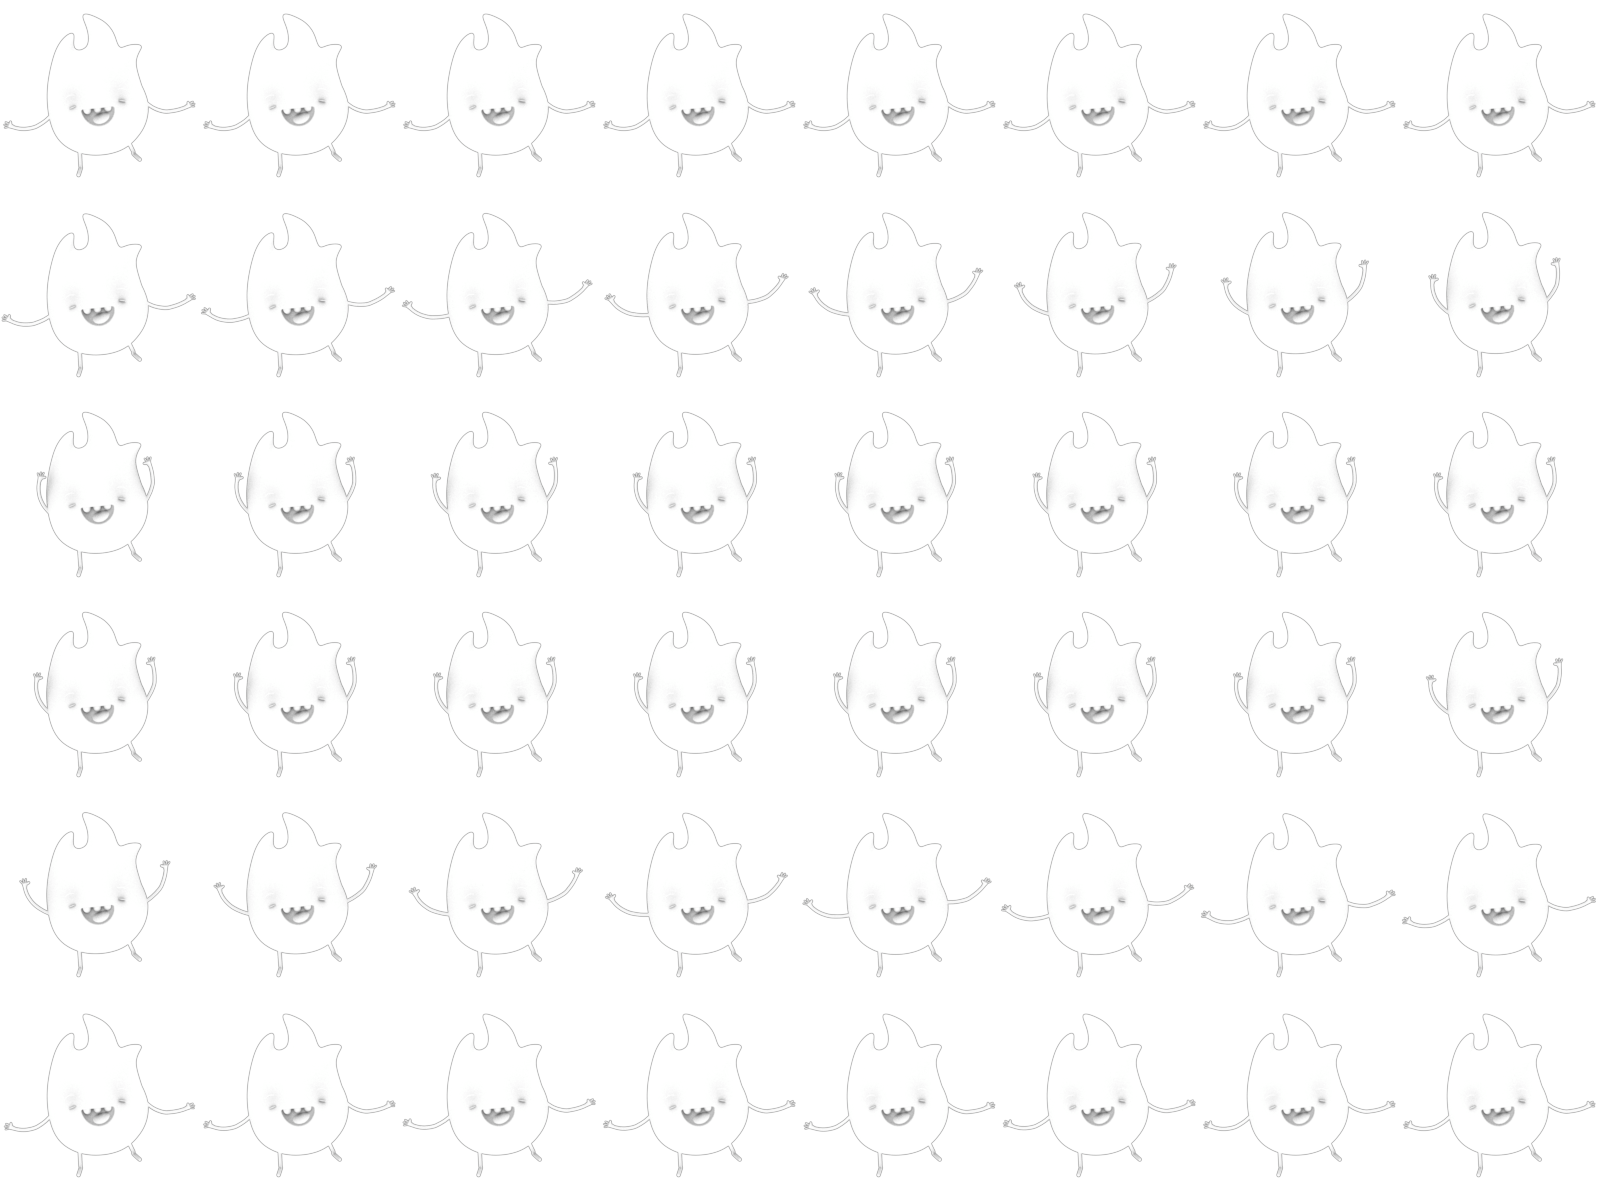
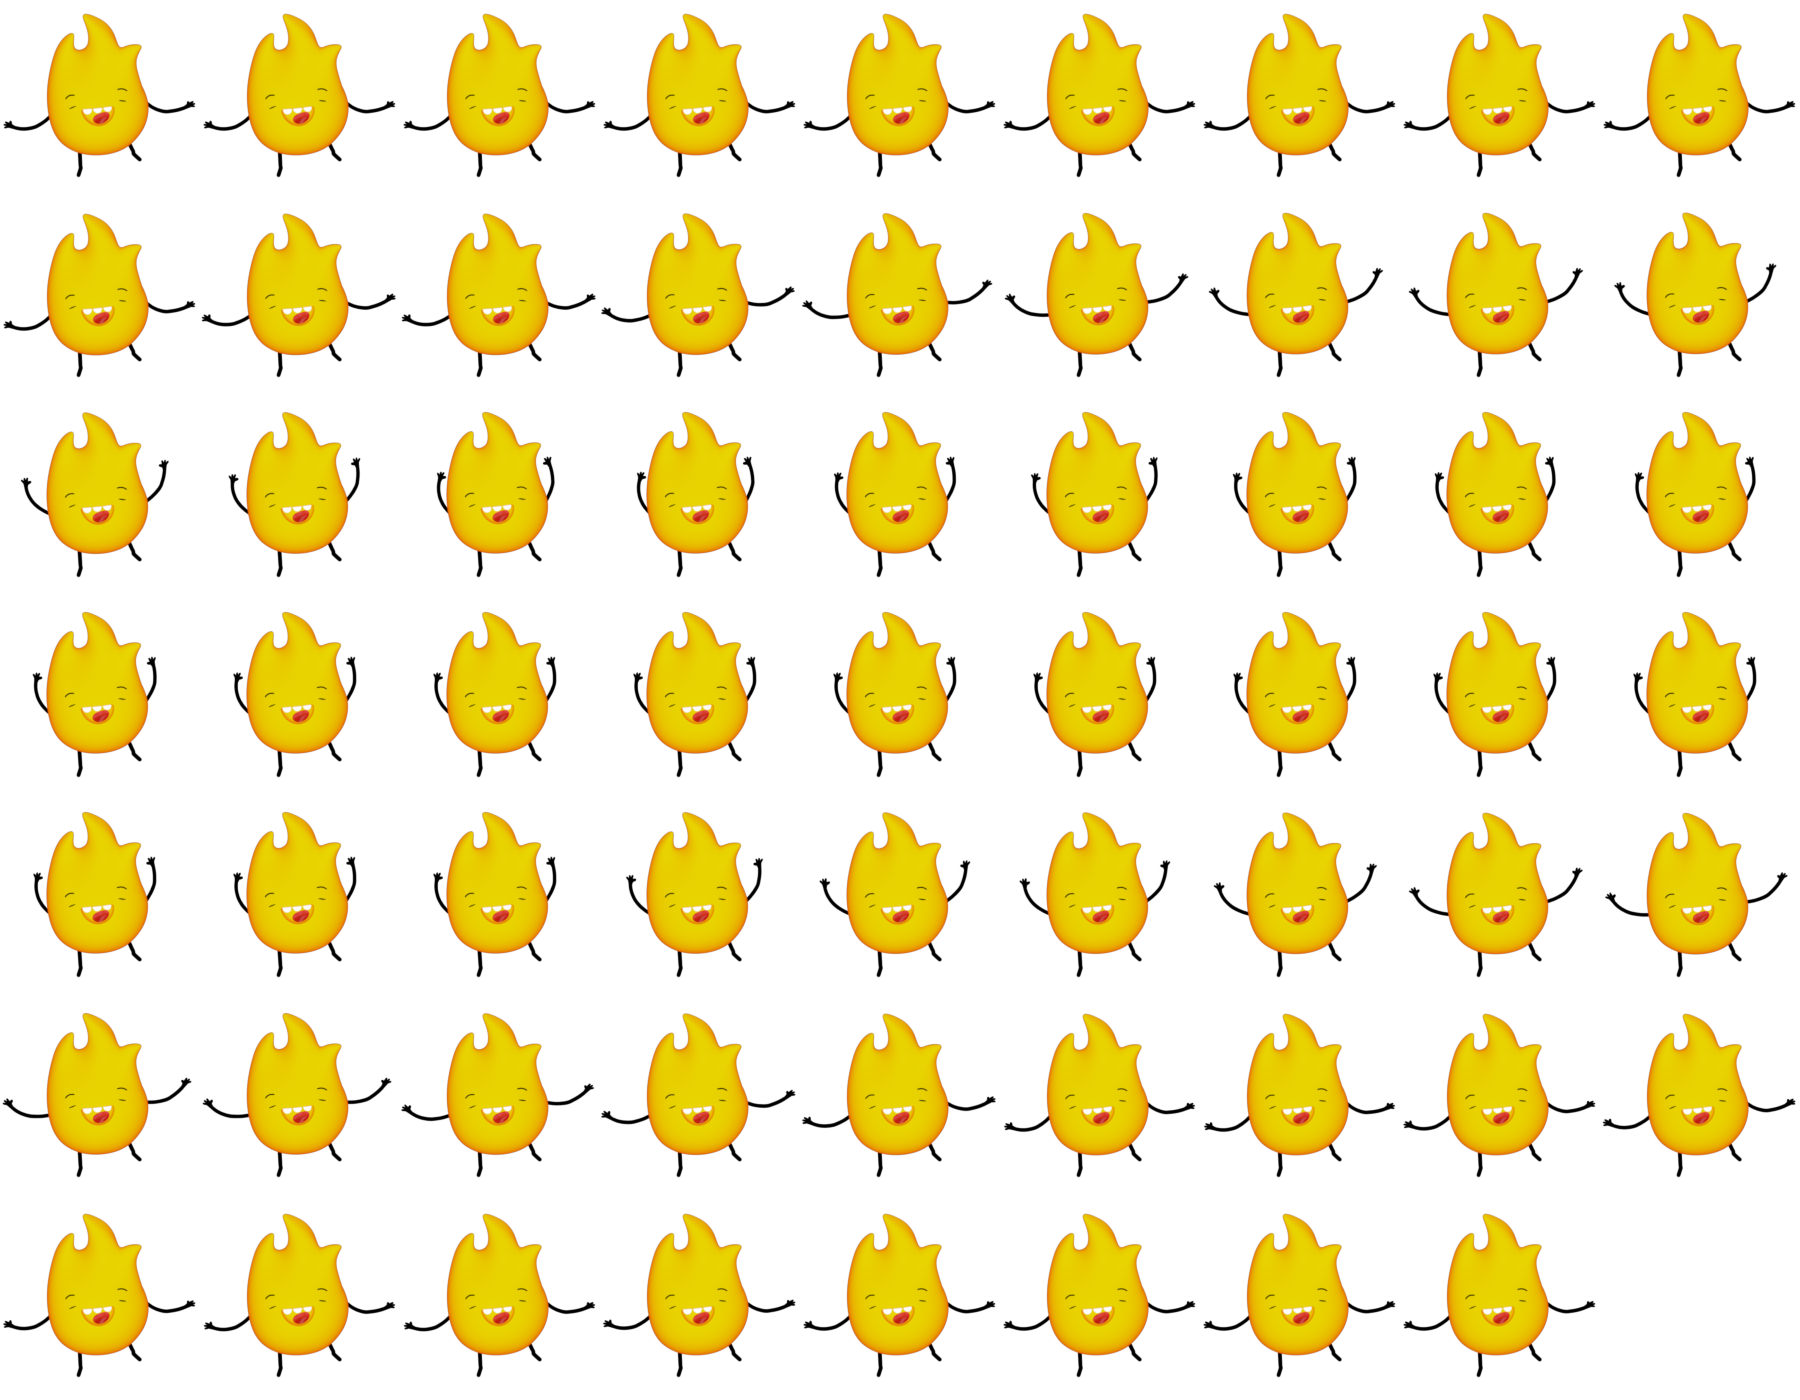
feat: updated assets

diff --git a/packages/pinball_components/lib/src/components/sparky_animatronic.dart b/packages/pinball_components/lib/src/components/sparky_animatronic.dart
@@ -21,8 +21,8 @@ class SparkyAnimatronic extends SpriteAnimationComponent with HasGameRef {
       Assets.images.sparky.animatronic.keyName,
     );
 
-    const amountPerRow = 8;
-    const amountPerColumn = 6;
+    const amountPerRow = 9;
+    const amountPerColumn = 7;
     final textureSize = Vector2(
       spriteSheet.width / amountPerRow,
       spriteSheet.height / amountPerColumn,
@@ -32,7 +32,7 @@ class SparkyAnimatronic extends SpriteAnimationComponent with HasGameRef {
     animation = SpriteAnimation.fromFrameData(
       spriteSheet,
       SpriteAnimationData.sequenced(
-        amount: amountPerRow * amountPerColumn,
+        amount: (amountPerRow * amountPerColumn) - 1,
         amountPerRow: amountPerRow,
         stepTime: 1 / 24,
         textureSize: textureSize,
